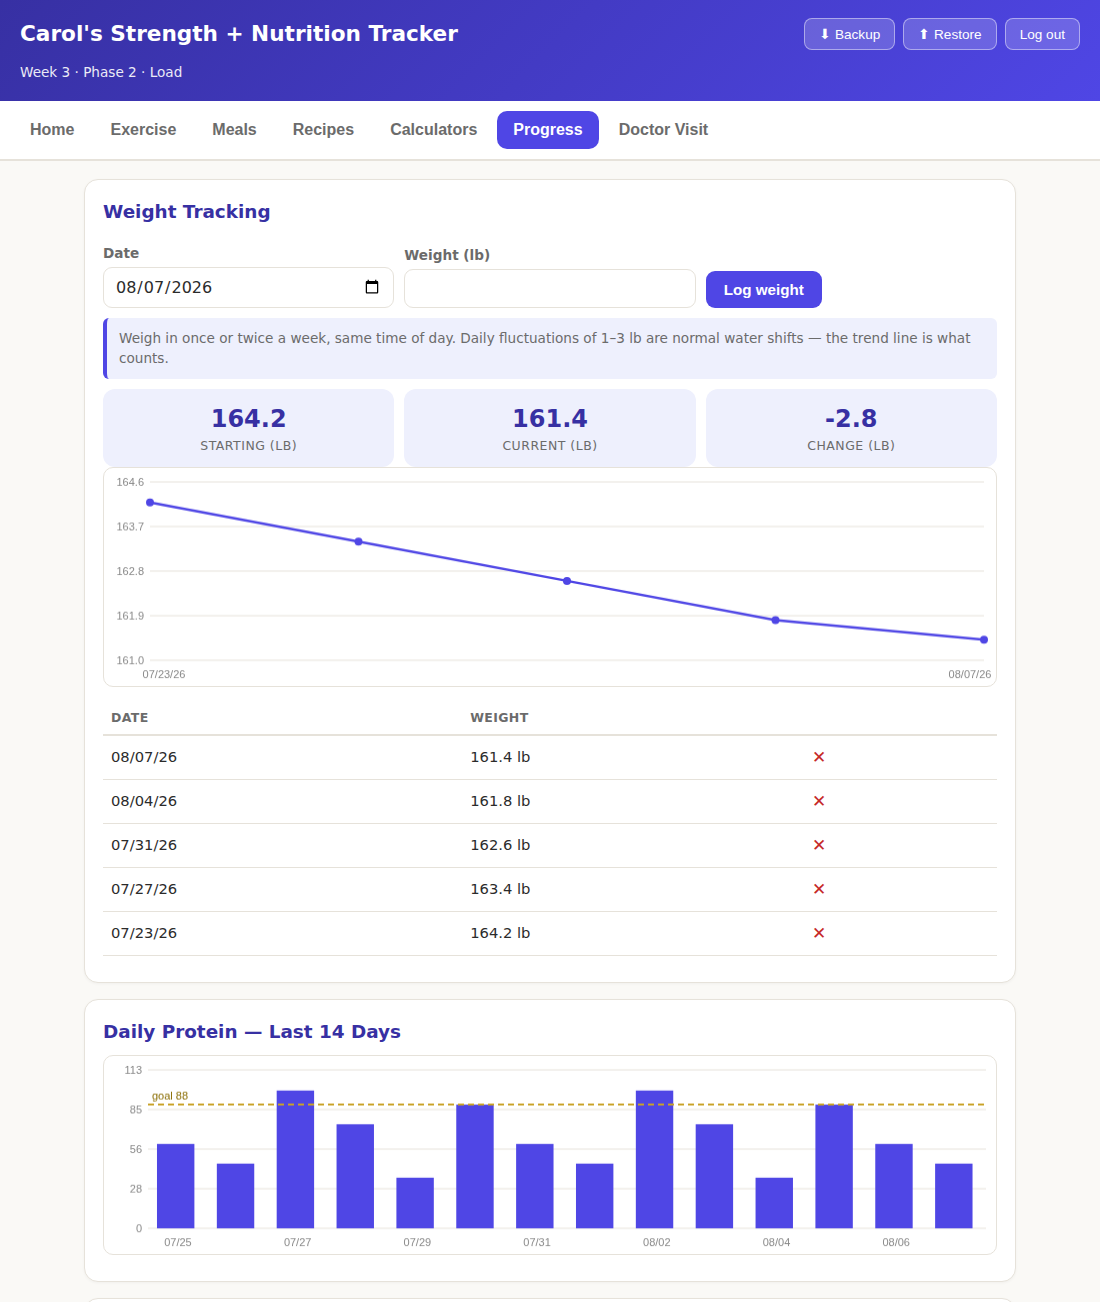
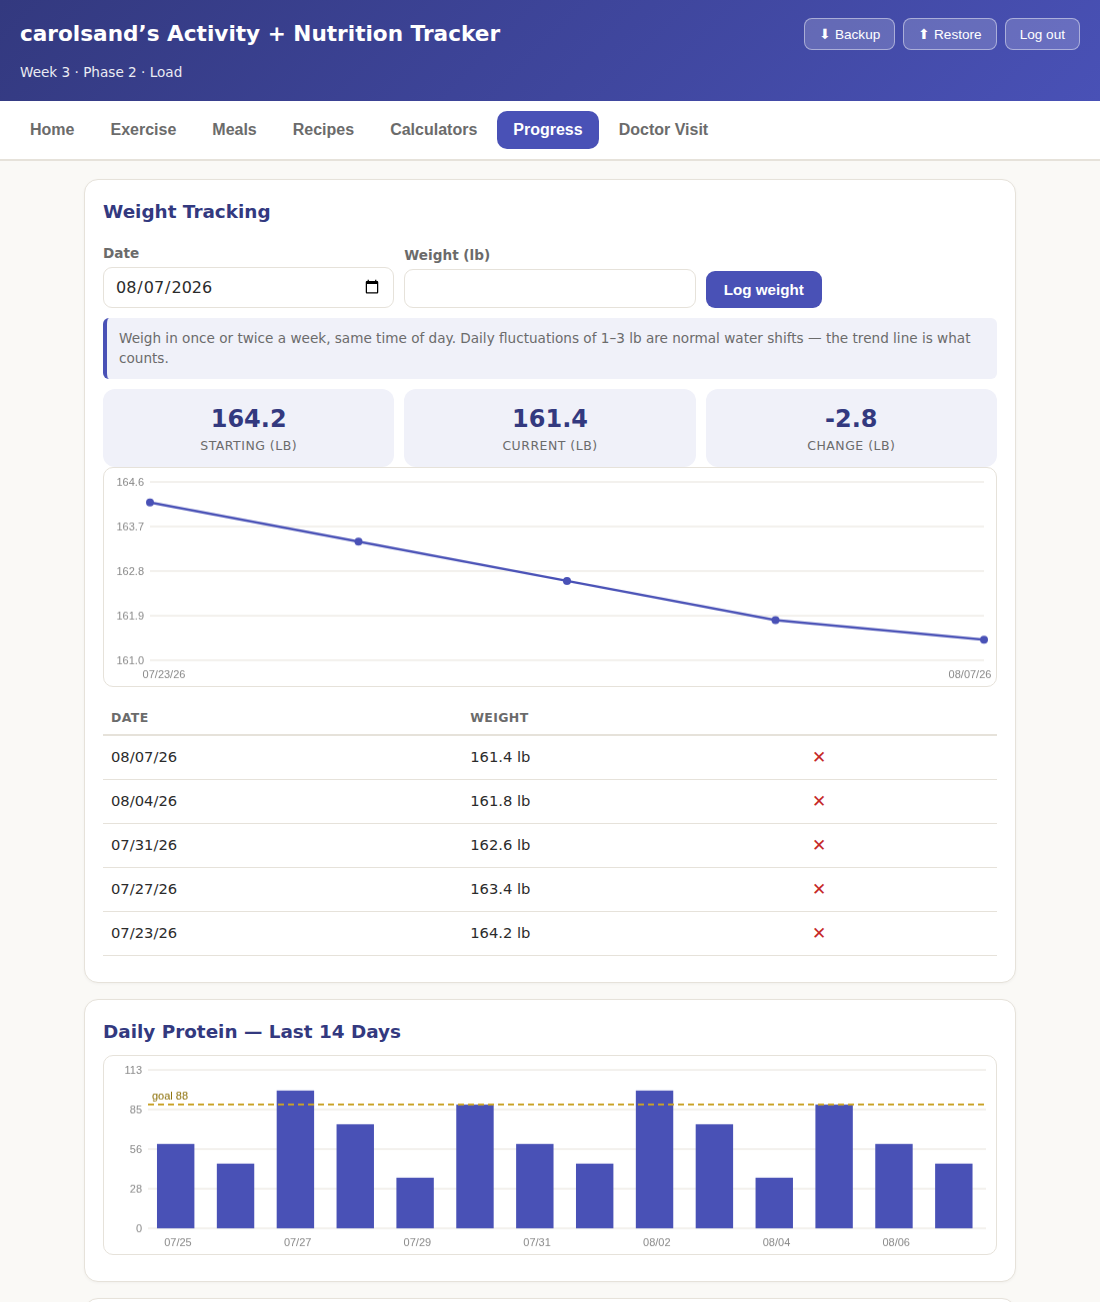
Adjust palette to #4951b6 / gold
Swaps --accent to the requested #4951b6 (good contrast, used as-is).
For the secondary, the requested #ceb831 tests at ~2:1 contrast for
white text and ~2.6:1 for dark text on itself — both well under
WCAG's 4.5:1 — so derived a same-hue dark companion (#7c6e1d) for
text/solid-fill roles and a pale tint (#f7f2df) for background washes,
same structure as the previous indigo/mustard pass.

Updates README graphics and regenerates the real app screenshots to
match.

diff --git a/strength-nutrition-tracker.html b/strength-nutrition-tracker.html
@@ -6,8 +6,8 @@
 <title>Activity + Nutrition Tracker</title>
 <style>
 :root{
-  --accent:#4f46e5; --accent-dark:#3730a3; --accent-light:#eef0fd;
-  --plum:#96751a; --plum-light:#f7f0dc;
+  --accent:#4951b6; --accent-dark:#33397f; --accent-light:#f0f1f9;
+  --plum:#7c6e1d; --plum-light:#f7f2df;
   --bg:#faf9f6; --card:#ffffff; --ink:#2b2b2b; --muted:#6b6b6b;
   --line:#e6e2da; --good:#2e7d32; --warn:#c62828; --gold:#c9a227;
 }
@@ -1069,9 +1069,9 @@ function drawWeightChart(){
   for(let g=0;g<=4;g++){ const v=lo+(hi-lo)*g/4, yy=y(v);
     ctx.beginPath(); ctx.moveTo(pad.l,yy); ctx.lineTo(W-pad.r,yy); ctx.stroke();
     ctx.fillText(v.toFixed(1), pad.l-6, yy+4); }
-  ctx.strokeStyle="#4f46e5"; ctx.lineWidth=2.5; ctx.beginPath();
+  ctx.strokeStyle="#4951b6"; ctx.lineWidth=2.5; ctx.beginPath();
   ws.forEach((w,i)=>{ i?ctx.lineTo(x(i),y(w.lbs)):ctx.moveTo(x(i),y(w.lbs)); }); ctx.stroke();
-  ctx.fillStyle="#4f46e5";
+  ctx.fillStyle="#4951b6";
   ws.forEach((w,i)=>{ ctx.beginPath(); ctx.arc(x(i),y(w.lbs),4,0,7); ctx.fill(); });
   ctx.fillStyle="#888"; ctx.textAlign="center";
   ctx.fillText(fmtDate(ws[0].date), x(0)+14, H-8);
@@ -1111,13 +1111,13 @@ function drawBarsChart(id, days, series, targetLine, emptyText){
 function drawProteinChart(){
   const days = last14();
   const vals = days.map(d=>S.meals.filter(m=>m.date===d).reduce((a,m)=>a+(+m.protein||0),0));
-  drawBarsChart("chartProtein", days, [{name:"Protein (g)", values:vals, color:"#4f46e5"}], proteinRange()[0], "Log meals to see your daily protein here");
+  drawBarsChart("chartProtein", days, [{name:"Protein (g)", values:vals, color:"#4951b6"}], proteinRange()[0], "Log meals to see your daily protein here");
 }
 function drawCalsChart(){
   const days = last14();
   const eaten = days.map(d=>S.meals.filter(m=>m.date===d).reduce((a,m)=>a+(+m.cals||0),0));
   const burned = days.map(d=>S.activities.filter(a=>a.date===d).reduce((a,x)=>a+x.kcal,0));
-  drawBarsChart("chartCals", days, [{name:"Eaten",values:eaten,color:"#96751a"},{name:"Burned (exercise)",values:burned,color:"#4f46e5"}], null, "Log meals and activities to compare calories in vs. out");
+  drawBarsChart("chartCals", days, [{name:"Eaten",values:eaten,color:"#7c6e1d"},{name:"Burned (exercise)",values:burned,color:"#4951b6"}], null, "Log meals and activities to compare calories in vs. out");
 }
 function drawWorkoutsChart(){
   const n = Math.min(totalWeeks(), Math.max(currentWeek(),8));
@@ -1132,7 +1132,7 @@ function drawWorkoutsChart(){
   for(let g=0;g<=4;g++){ const v=hi*g/4, yy=y(v); ctx.beginPath(); ctx.moveTo(pad.l,yy); ctx.lineTo(W-pad.r,yy); ctx.stroke(); ctx.fillText(Math.round(v),pad.l-6,yy+4); }
   const slot=(W-pad.l-pad.r)/n;
   vals.forEach((v,i)=>{
-    ctx.fillStyle = (i+1===currentWeek()) ? "#c9a227" : "#4f46e5";
+    ctx.fillStyle = (i+1===currentWeek()) ? "#c9a227" : "#4951b6";
     if (v>0) ctx.fillRect(pad.l+slot*i+slot*0.2, y(v), slot*0.6, (H-pad.b)-y(v));
     ctx.fillStyle="#888"; ctx.textAlign="center";
     if (n<=16 || i%2===0) ctx.fillText(labels[i], pad.l+slot*i+slot/2, H-8);
